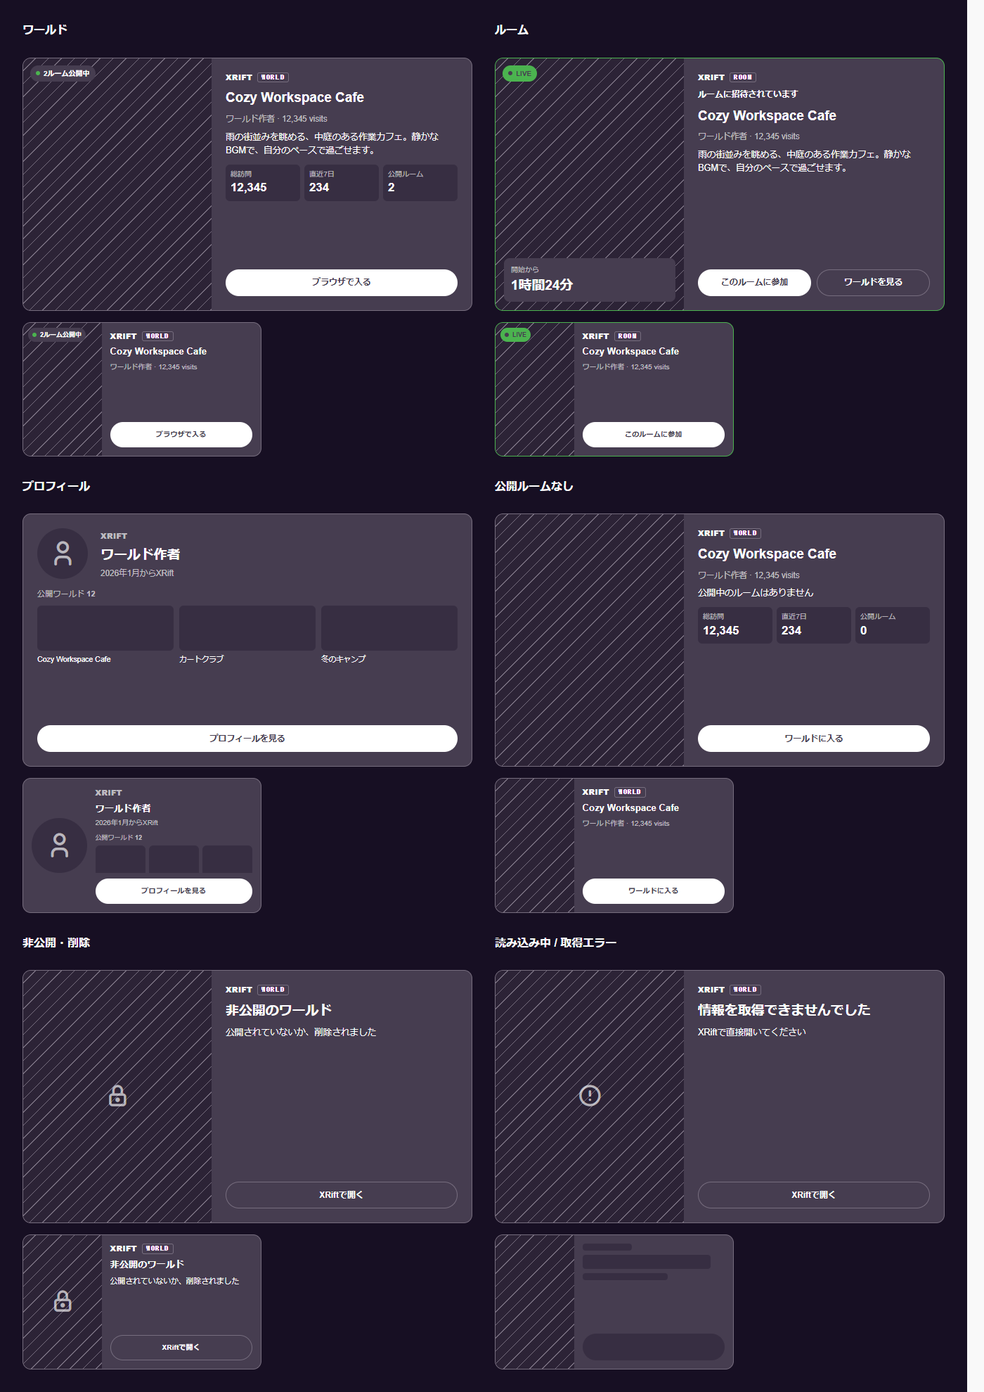
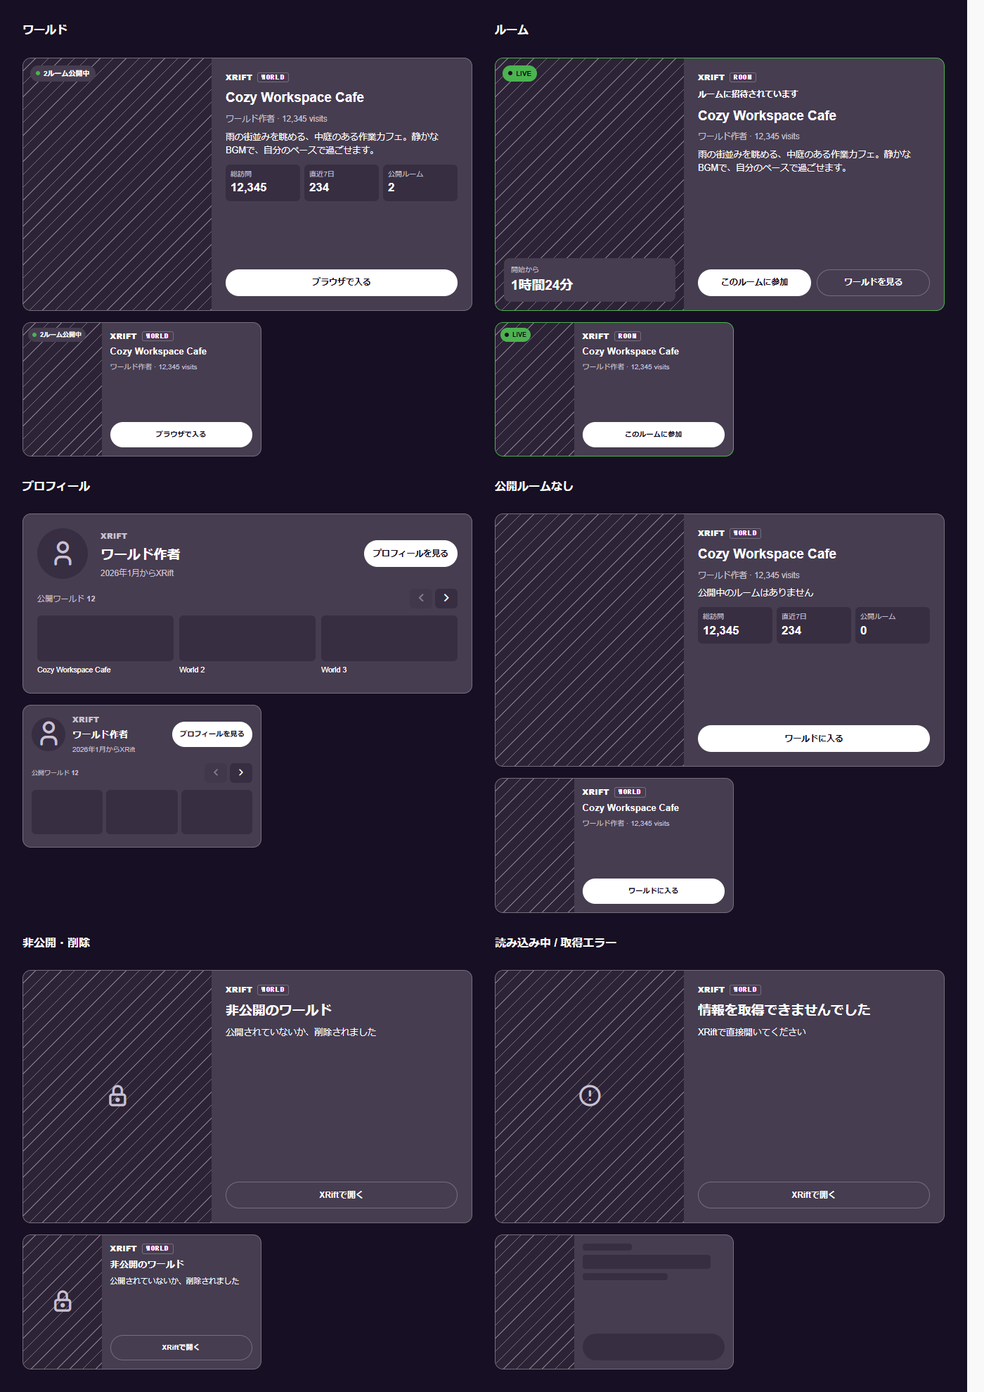
fix(gridspace): refine XRift profile cards and scroll worlds

Changed region(s): [[0.0, 0.4624, 0.4914, 0.6781], [0.3686, 0.3699, 0.4607, 0.4315], [0.0307, 0.4007, 0.0614, 0.4315]]

diff --git a/packages/frontend/src/components/MkXriftPreview.vue b/packages/frontend/src/components/MkXriftPreview.vue
@@ -5,7 +5,7 @@ SPDX-License-Identifier: AGPL-3.0-only
 
 <template>
 <div :class="$style.root">
-	<article :class="[$style.card, { [$style.profile]: type === 'user' && state === 'available' && !loading, [$style.live]: isLive }]" :aria-busy="loading">
+	<article :class="[$style.card, { [$style.profileSize]: type === 'user', [$style.profile]: type === 'user' && state === 'available' && !loading, [$style.live]: isLive }]" :aria-busy="loading">
 		<template v-if="type === 'user' && state === 'available' && !loading">
 			<div :class="$style.profileHeading">
 				<div :class="$style.avatar">
@@ -17,10 +17,17 @@ SPDX-License-Identifier: AGPL-3.0-only
 					<h3 :class="$style.title">{{ summary?.title }}</h3>
 					<p v-if="joinedAt" :class="$style.meta">{{ i18n.tsx._xriftPreview.joinedAt({ date: joinedAt }) }}</p>
 				</div>
+				<a :href="url" target="_blank" rel="nofollow noopener" :class="[$style.button, $style.primary, $style.profileAction]">{{ i18n.ts._xriftPreview.viewProfile }}</a>
 			</div>
-			<div v-if="data?.totalWorlds != null" :class="$style.worlds">
-				<p :class="$style.worldCount">{{ i18n.ts._xriftPreview.publicWorlds }} <strong>{{ format(data.totalWorlds) }}</strong></p>
-				<div v-if="data.worlds?.length" :class="$style.worldGrid">
+			<div v-if="data?.totalWorlds != null && data.totalWorlds > 0" :class="$style.worlds">
+				<div :class="$style.worldsHeader">
+					<p :class="$style.worldCount">{{ i18n.ts._xriftPreview.publicWorlds }} <strong>{{ format(data.totalWorlds) }}</strong></p>
+					<div v-if="(data.worlds?.length ?? 0) > 3" :class="$style.scrollActions">
+						<button class="_button" :class="$style.scrollButton" :aria-label="i18n.ts._xriftPreview.previousWorlds" :disabled="!canScrollLeft" @click="scrollWorlds(-1)"><i class="ti ti-chevron-left" aria-hidden="true"></i></button>
+						<button class="_button" :class="$style.scrollButton" :aria-label="i18n.ts._xriftPreview.nextWorlds" :disabled="!canScrollRight" @click="scrollWorlds(1)"><i class="ti ti-chevron-right" aria-hidden="true"></i></button>
+					</div>
+				</div>
+				<div v-if="data.worlds?.length" ref="worldScroller" :class="$style.worldGrid" role="region" :aria-label="i18n.ts._xriftPreview.publicWorlds" tabindex="0" @scroll.passive="updateWorldScrollState" @keydown.left.prevent="scrollWorlds(-1)" @keydown.right.prevent="scrollWorlds(1)">
 					<a v-for="world in data.worlds" :key="world.url" :href="world.url" :aria-label="world.title" target="_blank" rel="nofollow noopener" :class="$style.worldLink">
 						<div :class="$style.worldImage">
 							<img v-if="world.thumbnail && !hideImages" :src="world.thumbnail" alt="" loading="lazy" @error="hideFailedImage"/>
@@ -29,7 +36,6 @@ SPDX-License-Identifier: AGPL-3.0-only
 					</a>
 				</div>
 			</div>
-			<a :href="url" target="_blank" rel="nofollow noopener" :class="[$style.button, $style.primary, $style.profileAction]">{{ i18n.ts._xriftPreview.viewProfile }}</a>
 		</template>
 		<template v-else>
 			<div :class="[$style.visual, { [$style.placeholder]: !imageVisible || state !== 'available' || loading }]">
@@ -72,7 +78,7 @@ SPDX-License-Identifier: AGPL-3.0-only
 </template>
 
 <script setup lang="ts">
-import { computed, ref } from 'vue';
+import { computed, ref, watch } from 'vue';
 import { useLowresTime } from '@@/js/use-lowres-time.js';
 import type { SummalyResult } from '@misskey-dev/summaly';
 import type { XriftPreview } from 'misskey-js';
@@ -87,6 +93,28 @@ const props = defineProps<{
 	failed: boolean;
 }>();
 const data = computed(() => props.summary?.xrift);
+const worldScroller = ref<HTMLElement | null>(null);
+const canScrollLeft = ref(false);
+const canScrollRight = ref(false);
+watch(worldScroller, (element, _, onCleanup) => {
+	updateWorldScrollState();
+	if (!element || typeof ResizeObserver === 'undefined') return;
+	const observer = new ResizeObserver(updateWorldScrollState);
+	observer.observe(element);
+	onCleanup(() => observer.disconnect());
+}, { flush: 'post' });
+watch(() => data.value?.worlds, updateWorldScrollState, { flush: 'post' });
+
+function updateWorldScrollState(): void {
+	const element = worldScroller.value;
+	canScrollLeft.value = !!element && element.scrollLeft > 1;
+	canScrollRight.value = !!element && element.scrollLeft + element.clientWidth < element.scrollWidth - 1;
+}
+
+function scrollWorlds(direction: number): void {
+	worldScroller.value?.scrollBy({ left: direction * worldScroller.value.clientWidth });
+}
+
 const state = computed(() => props.failed ? 'error' : data.value?.state ?? 'available');
 const isLive = computed(() => props.type === 'instance' && state.value === 'available' && data.value != null && !props.loading);
 const hideImages = computed(() => props.summary?.sensitive === true || prefer.s.dataSaver.urlPreviewThumbnail);
@@ -128,8 +156,20 @@ function hideFailedImage(event: Event): void {
 
 <style lang="scss" module>
 .root {
+	// The supplied XRift design deliberately keeps its dark palette in every
+	// Misskey theme. Keep these colors local to the embedded card.
+	--xrift-panel: #463d50;
+	--xrift-visual: #2c2336;
+	--xrift-well: #372e42;
+	--xrift-border: #766d7e;
+	--xrift-fg: #ffffff;
+	--xrift-muted: #c9c1d2;
+	--xrift-ink: #170f23;
+	--xrift-hover: #574d61;
+	--xrift-live: #4bb34f;
+	--xrift-focus: #a6c8ff;
 	container-type: inline-size;
-	color: var(--MI_THEME-fg);
+	color: var(--xrift-fg);
 }
 .card {
 	display: grid;
@@ -137,59 +177,63 @@ function hideFailedImage(event: Event): void {
 	aspect-ratio: 16 / 9;
 	box-sizing: border-box;
 	overflow: hidden;
-	border: 1px solid var(--MI_THEME-divider);
+	border: 1px solid var(--xrift-border);
 	border-radius: var(--MI-radius);
-	background: var(--MI_THEME-panelHighlight);
+	background: var(--xrift-panel);
 	font-size: 14px;
-	&.live { border-color: var(--MI_THEME-success); }
+	&.live { border-color: var(--xrift-live); }
 }
 .visual {
 	position: relative;
 	min-width: 0;
 	min-height: 0;
-	background: var(--MI_THEME-bg);
+	background: var(--xrift-visual);
 	> img { display: block; width: 100%; height: 100%; object-fit: cover; }
 }
-.visualIcon { position: absolute; inset: 0; display: flex; align-items: center; justify-content: center; font-size: 28px; color: color-mix(in srgb, var(--MI_THEME-fg) 65%, transparent); }
-.placeholder { background: repeating-linear-gradient(135deg, var(--MI_THEME-bg), var(--MI_THEME-bg) 12px, var(--MI_THEME-divider) 12px, var(--MI_THEME-divider) 13px); }
+.visualIcon { position: absolute; inset: 0; display: flex; align-items: center; justify-content: center; font-size: 28px; color: var(--xrift-muted); }
+.placeholder { background: repeating-linear-gradient(135deg, var(--xrift-visual), var(--xrift-visual) 12px, var(--xrift-border) 12px, var(--xrift-border) 13px); }
 .body { min-width: 0; padding: 20px; display: flex; flex-direction: column; gap: 9px; overflow: hidden; }
 .brandRow { display: flex; align-items: center; gap: 7px; }
 .brand { font-size: 11px; font-weight: 800; letter-spacing: 0.03em; }
-.type { padding: 1px 5px; border: 1px solid var(--MI_THEME-divider); border-radius: 3px; font: 700 9px/1.2 monospace; letter-spacing: 0.06em; }
+.type { padding: 1px 5px; border: 1px solid var(--xrift-border); border-radius: 3px; font: 700 9px/1.2 monospace; letter-spacing: 0.06em; }
 .title { margin: 0; font-size: 1.35em; line-height: 1.35; font-weight: 750; overflow-wrap: anywhere; display: -webkit-box; -webkit-box-orient: vertical; -webkit-line-clamp: 2; overflow: hidden; }
-.meta { margin: 0; color: color-mix(in srgb, var(--MI_THEME-fg) 65%, transparent); font-size: 0.83em; overflow: hidden; text-overflow: ellipsis; white-space: nowrap; }
+.meta { margin: 0; color: var(--xrift-muted); font-size: 0.83em; overflow: hidden; text-overflow: ellipsis; white-space: nowrap; }
 .description { margin: 0; font-size: 0.9em; line-height: 1.55; white-space: pre-line; overflow-wrap: anywhere; display: -webkit-box; -webkit-box-orient: vertical; -webkit-line-clamp: 2; overflow: hidden; }
 .invitation { margin: 0; font-size: 0.85em; font-weight: bold; }
 .stats {
 	display: flex; gap: 6px; margin: 0;
-	> div { flex: 1; min-width: 0; padding: 7px; background: var(--MI_THEME-buttonBg); border-radius: 6px; }
-	dt { color: color-mix(in srgb, var(--MI_THEME-fg) 65%, transparent); font-size: 0.72em; white-space: nowrap; }
+	> div { flex: 1; min-width: 0; padding: 7px; background: var(--xrift-well); border-radius: 6px; }
+	dt { color: var(--xrift-muted); font-size: 0.72em; white-space: nowrap; }
 	dd { margin: 2px 0 0; font-size: 1.2em; font-weight: bold; font-variant-numeric: tabular-nums; }
 }
 .actions { display: flex; gap: 8px; margin-top: auto; padding-top: 8px; }
 .button {
 	display: flex; align-items: center; justify-content: center; min-width: 0; min-height: 38px; box-sizing: border-box; flex: 1;
-	padding: 8px 12px; border: 1px solid var(--MI_THEME-divider); border-radius: 999px; color: inherit;
+	padding: 8px 12px; border: 1px solid var(--xrift-border); border-radius: 999px; color: inherit;
 	font-size: 0.85em; line-height: 1.3; font-weight: bold; text-align: center;
-	&:hover { text-decoration: none; background: var(--MI_THEME-buttonHoverBg); }
-	&:focus-visible { outline: 2px solid var(--MI_THEME-focus); outline-offset: -3px; }
-	&.primary { background: var(--MI_THEME-fg); color: var(--MI_THEME-panel); border-color: transparent; &:hover { opacity: 0.85; } }
+	&:hover { text-decoration: none; background: var(--xrift-hover); }
+	&:focus-visible { outline: 2px solid var(--xrift-focus); outline-offset: 2px; }
+	&.primary { background: var(--xrift-fg); color: var(--xrift-ink); border-color: transparent; &:hover { opacity: 0.85; } }
 }
-.badge { position: absolute; top: 10px; left: 10px; padding: 5px 8px; border-radius: 999px; background: var(--MI_THEME-panel); font-size: 10px; font-weight: bold; display: flex; align-items: center; gap: 5px; }
-.dot { width: 6px; height: 6px; border-radius: 50%; background: var(--MI_THEME-success); }
-.liveBadge { background: var(--MI_THEME-success); color: var(--MI_THEME-panel); .dot { background: currentColor; } }
-.elapsed { position: absolute; left: 12px; right: 12px; bottom: 12px; padding: 10px; background: var(--MI_THEME-panel); border-radius: 8px; small { display: block; font-size: 10px; color: color-mix(in srgb, var(--MI_THEME-fg) 65%, transparent); } strong { display: block; margin-top: 3px; font-size: 1.35em; } }
-.card.profile { display: flex; flex-direction: column; padding: 20px; gap: 14px; }
+.badge { position: absolute; top: 10px; left: 10px; padding: 5px 8px; border-radius: 999px; background: var(--xrift-panel); font-size: 10px; font-weight: bold; display: flex; align-items: center; gap: 5px; }
+.dot { width: 6px; height: 6px; border-radius: 50%; background: var(--xrift-live); }
+.liveBadge { background: var(--xrift-live); color: var(--xrift-ink); .dot { background: currentColor; } }
+.elapsed { position: absolute; left: 12px; right: 12px; bottom: 12px; padding: 10px; background: var(--xrift-panel); border-radius: 8px; small { display: block; font-size: 10px; color: var(--xrift-muted); } strong { display: block; margin-top: 3px; font-size: 1.35em; } }
+.profileSize { max-height: 320px; }
+.card.profile { display: flex; flex-direction: column; aspect-ratio: auto; padding: 20px; gap: 14px; }
 .profileHeading { display: flex; gap: 18px; align-items: center; min-height: 0; }
-.avatar { display: grid; place-items: center; width: 72px; height: 72px; flex-shrink: 0; border-radius: 50%; background: var(--MI_THEME-buttonBg); color: color-mix(in srgb, var(--MI_THEME-fg) 65%, transparent); overflow: hidden; > img { width: 100%; height: 100%; object-fit: cover; } > i { font-size: 32px; } }
-.profileIdentity { min-width: 0; .brand { color: color-mix(in srgb, var(--MI_THEME-fg) 65%, transparent); } .title { margin: 5px 0; } }
+.avatar { display: grid; place-items: center; width: 72px; height: 72px; flex-shrink: 0; border-radius: 50%; background: var(--xrift-well); color: var(--xrift-muted); overflow: hidden; > img { width: 100%; height: 100%; object-fit: cover; } > i { font-size: 32px; } }
+.profileIdentity { flex: 1; min-width: 0; .brand { color: var(--xrift-muted); } .title { margin: 5px 0; } }
 .worlds { min-height: 0; overflow: hidden; }
-.worldCount { margin: 0 0 8px; font-size: 0.8em; color: color-mix(in srgb, var(--MI_THEME-fg) 65%, transparent); }
-.worldGrid { display: grid; grid-template-columns: repeat(3, minmax(0, 1fr)); gap: 8px; }
-.worldLink { min-width: 0; font-size: 0.75em; color: inherit; > span { display: block; margin-top: 5px; white-space: nowrap; overflow: hidden; text-overflow: ellipsis; } &:focus-visible { outline: 2px solid var(--MI_THEME-focus); outline-offset: 2px; } }
-.worldImage { aspect-ratio: 3 / 1; overflow: hidden; border-radius: 6px; background: var(--MI_THEME-buttonBg); > img { display: block; width: 100%; height: 100%; object-fit: cover; } > img[hidden] { display: none; } }
-.profileAction { flex: 0 0 auto; margin-top: auto; }
-.skeleton { height: 10px; border-radius: 4px; background: var(--MI_THEME-buttonBg); }
+.worldsHeader { display: flex; align-items: center; justify-content: space-between; gap: 8px; margin-bottom: 8px; }
+.worldCount { margin: 0; font-size: 0.8em; color: var(--xrift-muted); }
+.scrollActions { display: flex; gap: 4px; }
+.scrollButton { display: grid; place-items: center; width: 32px; height: 28px; border-radius: 6px; color: var(--xrift-fg); background: var(--xrift-well); &:disabled { opacity: 0.35; cursor: default; } &:not(:disabled):hover { background: var(--xrift-hover); } &:focus-visible { outline: 2px solid var(--xrift-focus); outline-offset: -2px; } }
+.worldGrid { display: grid; grid-auto-flow: column; grid-auto-columns: calc((100% - 16px) / 3); gap: 8px; padding: 2px 0 6px; overflow-x: auto; overscroll-behavior-x: contain; scroll-snap-type: x proximity; scroll-behavior: smooth; scrollbar-width: thin; scrollbar-color: var(--xrift-border) transparent; direction: ltr; &:focus-visible { outline: 2px solid var(--xrift-focus); outline-offset: -2px; } }
+.worldLink { min-width: 0; font-size: 0.75em; color: inherit; scroll-snap-align: start; > span { display: block; margin-top: 5px; white-space: nowrap; overflow: hidden; text-overflow: ellipsis; } &:focus-visible { outline: 2px solid var(--xrift-focus); outline-offset: -2px; } }
+.worldImage { aspect-ratio: 3 / 1; max-height: 80px; overflow: hidden; border-radius: 6px; background: var(--xrift-well); > img { display: block; width: 100%; height: 100%; object-fit: cover; } > img[hidden] { display: none; } }
+.profileAction { flex: 0 0 auto; max-width: 45%; }
+.skeleton { height: 10px; border-radius: 4px; background: var(--xrift-well); }
 .skeletonBrand { width: 35%; }
 .skeletonTitle { height: 20px; width: 90%; }
 .skeletonText { width: 60%; }
@@ -211,19 +255,20 @@ function hideFailedImage(event: Event): void {
 	.badge { top: 7px; left: 7px; font-size: 9px; padding: 4px 6px; }
 	.button { min-height: 36px; padding: 7px 8px; }
 	.actions { padding-top: 4px; }
-	.card.profile { display: grid; grid-template-columns: 25% minmax(0, 1fr); grid-template-rows: auto 1fr auto; padding: 12px; gap: 8px 12px; }
-	.profileHeading { display: contents; }
-	.avatar { grid-column: 1; grid-row: 1 / 4; width: 100%; height: auto; aspect-ratio: 1; align-self: center; }
-	.profileIdentity { grid-column: 2; }
-	.worlds { grid-column: 2; }
-	.worldGrid { gap: 5px; }
+	.card.profile { padding: 12px; gap: 12px; }
+	.profileHeading { gap: 10px; }
+	.avatar { width: 48px; height: 48px; }
+	.profileAction { padding: 8px 10px; }
+	.worldGrid { grid-auto-columns: calc((100% - 10px) / 3); gap: 5px; }
 	.worldImage { aspect-ratio: 1.6; }
 	.worldLink > span { display: none; }
-	.worldCount { margin-bottom: 5px; font-size: 0.75em; }
-	.profileAction { grid-column: 2; }
+	.worldCount { font-size: 0.75em; }
 }
 @container (max-width: 320px) {
 	.meta { display: none; }
 	.body { padding: 10px; gap: 4px; }
+}
+@media (prefers-reduced-motion: reduce) {
+	.worldGrid { scroll-behavior: auto; }
 }
 </style>

diff --git a/packages/backend/src/server/web/xrift.test.ts b/packages/backend/src/server/web/xrift.test.ts
@@ -18,7 +18,7 @@ function fixture(overrides: Record<string, unknown> = {}) {
 		[`/worlds/${id}/stats`]: { data: { worldId: id, totalVisits: 12345, visitsLast7Days: 234 } },
 		[`/worlds/${id}/instances?limit=1`]: { data: [], pagination: { total: 2 } },
 		[`/users/${ownerId}`]: { data: { id: ownerId, displayName: 'World creator', userIconUrl: 'https://assets.xrift.net/avatar.png', createdAt: '2026-01-01T00:00:00.000Z' } },
-		[`/users/${ownerId}/worlds?limit=3`]: { data: [world, { ...world, isPublic: false }], pagination: { total: 12 } },
+		[`/users/${ownerId}/worlds?limit=50`]: { data: [world, { ...world, isPublic: false }], pagination: { total: 12 } },
 		[`/instances/${instanceId}`]: { data: { id: instanceId, worldId: id, createdAt: '2026-11-17T00:00:00.000Z' } },
 		[`/worlds/${id}/instances?limit=50&offset=0`]: { data: [{ id: instanceId, worldId: id }], pagination: { total: 1 } },
 		...overrides,
@@ -45,7 +45,7 @@ describe('XRift URL summaries', () => {
 		const summary = await fetchXriftSummary(`https://app.xrift.net/instance/${instanceId}`, apiKey, fixture());
 		expect(summary).toMatchObject({ title: world.name, xrift: { type: 'instance', state: 'available', worldUrl, createdAt: '2026-11-17T00:00:00.000Z' } });
 	});
-	test('returns a profile and at most three public worlds', async () => {
+	test('returns a profile and its public worlds', async () => {
 		const summary = await fetchXriftSummary(`https://app.xrift.net/user/${ownerId}`, apiKey, fixture());
 		expect(summary).toMatchObject({ title: 'World creator', thumbnail: 'https://assets.xrift.net/avatar.png', xrift: { type: 'user', totalWorlds: 12, worlds: [{ url: worldUrl, title: world.name }] } });
 		expect(summary?.xrift.worlds).toHaveLength(1);
@@ -54,6 +54,13 @@ describe('XRift URL summaries', () => {
 		const summary = await fetchXriftSummary(`https://app.xrift.net/instance/${instanceId}`, apiKey, fixture({ [`/worlds/${id}/instances?limit=50&offset=0`]: { data: [], pagination: { total: 0 } } }));
 		expect(summary).toMatchObject({ title: null, thumbnail: null, xrift: { state: 'unavailable' } });
 		expect(summary?.xrift.createdAt).toBeUndefined();
+	});
+	test('returns more than three public worlds, capped at the API page size', async () => {
+		const worlds = Array.from({ length: 51 }, (_, i) => ({ ...world, id: `4b84ca2a-06cc-4351-a2df-${i.toString(16).padStart(12, '0')}`, name: `World ${i}` }));
+		const summary = await fetchXriftSummary(`https://app.xrift.net/user/${ownerId}`, apiKey, fixture({ [`/users/${ownerId}/worlds?limit=50`]: { data: worlds, pagination: { total: 51 } } }));
+		expect(summary?.xrift.totalWorlds).toBe(51);
+		expect(summary?.xrift.worlds).toHaveLength(50);
+		expect(summary?.xrift.worlds?.at(-1)?.title).toBe('World 49');
 	});
 	test.each([
 		'https://example.com/world/' + id, 'https://app.xrift.net.evil.example/world/' + id,

diff --git a/packages/frontend/src/components/MkXriftPreview.stories.impl.ts b/packages/frontend/src/components/MkXriftPreview.stories.impl.ts
@@ -24,7 +24,9 @@ export const World = {
 export const Mobile = { ...World, render(args) { return { components: { MkXriftPreview }, setup: () => ({ args }), template: '<div style="width:340px;max-width:100%"><MkXriftPreview v-bind="args"/></div>' }; } } satisfies StoryObj<typeof MkXriftPreview>;
 export const Empty = { ...World, args: { ...World.args, summary: { ...summary, xrift: { ...summary.xrift, publicInstances: 0 } } } } satisfies StoryObj<typeof MkXriftPreview>;
 export const Room = { ...World, args: { ...World.args, type: 'instance', url: url.replace('/world/', '/instance/'), summary: { ...summary, xrift: { ...summary.xrift, type: 'instance', worldUrl: url, createdAt: new Date(Date.now() - 84 * 60_000).toISOString() } } } } satisfies StoryObj<typeof MkXriftPreview>;
-export const Profile = { ...World, args: { ...World.args, type: 'user', summary: { ...summary, title: 'ワールド作者', xrift: { type: 'user', state: 'available', creator: null, totalWorlds: 12, createdAt: '2026-01-01T00:00:00Z', worlds: [{ url, title: summary.title!, thumbnail: null }] } } } } satisfies StoryObj<typeof MkXriftPreview>;
+export const Profile = { ...World, args: { ...World.args, type: 'user', summary: { ...summary, title: 'ワールド作者', xrift: { type: 'user', state: 'available', creator: null, totalWorlds: 12, createdAt: '2026-01-01T00:00:00Z', worlds: Array.from({ length: 8 }, (_, i) => ({ url: i ? `${url}?world=${i}` : url, title: i ? `World ${i + 1}` : summary.title!, thumbnail: null })) } } } } satisfies StoryObj<typeof MkXriftPreview>;
 export const Unavailable = { ...World, args: { ...World.args, summary: { ...summary, xrift: { type: 'world', state: 'unavailable', creator: null } } } } satisfies StoryObj<typeof MkXriftPreview>;
 export const Loading = { ...World, args: { ...World.args, summary: null, loading: true } } satisfies StoryObj<typeof MkXriftPreview>;
 export const Error = { ...World, args: { ...World.args, summary: null, failed: true } } satisfies StoryObj<typeof MkXriftPreview>;
+
+export const ProfileWithoutWorlds = { ...Profile, args: { ...Profile.args, summary: { ...Profile.args.summary, xrift: { ...Profile.args.summary.xrift, totalWorlds: 0, worlds: [] } } } } satisfies StoryObj<typeof MkXriftPreview>;

diff --git a/packages/frontend/test/unit/xrift-preview.test.ts b/packages/frontend/test/unit/xrift-preview.test.ts
@@ -32,6 +32,22 @@ describe('XRift cards', () => {
 		expect(view.getByText('12')).toBeTruthy();
 		expect(view.getByRole('link', { name: 'Cozy Workspace Cafe' }).getAttribute('href')).toBe(World.args.url);
 	});
+	test('profiles without public worlds omit the count and keep the profile action beside the identity', () => {
+		const view = render(MkXriftPreview, { props: { ...Profile.args, summary: { ...Profile.args.summary, xrift: { ...Profile.args.summary.xrift, totalWorlds: 0, worlds: [] } } } });
+		expect(view.queryByText('公開ワールド')).toBeNull();
+		expect(view.queryByText('0')).toBeNull();
+		const name = view.getByRole('heading', { name: 'ワールド作者' });
+		const link = view.getByRole('link', { name: 'プロフィールを見る' });
+		expect(name.parentElement?.parentElement).toBe(link.parentElement);
+	});
+	test('keeps worlds beyond the third in the scrollable list', () => {
+		const worlds = Array.from({ length: 8 }, (_, i) => ({ url: `${World.args.url}?world=${i}`, title: `World ${i}`, thumbnail: null }));
+		const view = render(MkXriftPreview, { props: { ...Profile.args, summary: { ...Profile.args.summary, xrift: { ...Profile.args.summary.xrift, totalWorlds: 8, worlds } } } });
+		expect(view.getByRole('region', { name: '公開ワールド' })).toBeTruthy();
+		expect(view.getByRole('link', { name: 'World 7' })).toBeTruthy();
+		expect(view.getByRole('button', { name: '前のワールドを表示' })).toBeTruthy();
+		expect(view.getByRole('button', { name: '次のワールドを表示' })).toBeTruthy();
+	});
 	test('does not present unavailable counts as zero or an active room', () => {
 		const view = render(MkXriftPreview, { props: { ...Room.args, summary: { ...Room.args.summary, xrift: { type: 'instance', state: 'error', creator: null } } } });
 		expect(view.queryByText('LIVE')).toBeNull();

diff --git a/packages/backend/src/server/web/xrift.ts b/packages/backend/src/server/web/xrift.ts
@@ -102,10 +102,10 @@ export async function fetchXriftSummary(url: string, apiKey: string | null, getJ
 			summary.title = data.displayName;
 			summary.thumbnail = xriftImageUrl(data.userIconUrl);
 			summary.xrift.createdAt = date(data.createdAt);
-			const worlds = await optional(`/users/${resource.id}/worlds?limit=3`);
+			const worlds = await optional(`/users/${resource.id}/worlds?limit=50`);
 			if (Array.isArray(worlds?.data)) {
 				summary.xrift.totalWorlds = count(object(worlds.pagination)?.total);
-				summary.xrift.worlds = worlds.data.slice(0, 3).flatMap(item => {
+				summary.xrift.worlds = worlds.data.slice(0, 50).flatMap(item => {
 					const world = publicWorld(item);
 					return world ? [{ url: `https://app.xrift.net/world/${world.id}`, title: world.name as string, thumbnail: xriftImageUrl(world.thumbnailUrl) }] : [];
 				});

diff --git a/packages/backend/src/server/web/UrlPreviewService.ts b/packages/backend/src/server/web/UrlPreviewService.ts
@@ -115,7 +115,8 @@ export class UrlPreviewService implements OnApplicationShutdown {
 								};
 								await Promise.all([
 									result.xrift.worldUrl && !result.thumbnail ? thumbnailFor(result.xrift.worldUrl).then(image => { result.thumbnail = image; }) : null,
-									...(result.xrift.worlds ?? []).map(async world => { world.thumbnail ??= await thumbnailFor(world.url); }),
+									// Bound extra HTML requests when a profile has many worlds.
+									...(result.xrift.worlds ?? []).slice(0, 6).map(async world => { world.thumbnail ??= await thumbnailFor(world.url); }),
 								]);
 								return result;
 							})

diff --git a/packages/i18n/src/autogen/locale.ts b/packages/i18n/src/autogen/locale.ts
@@ -15167,6 +15167,14 @@ export interface Locale extends ILocale {
          */
         "publicWorlds": string;
         /**
+         * 前のワールドを表示
+         */
+        "previousWorlds": string;
+        /**
+         * 次のワールドを表示
+         */
+        "nextWorlds": string;
+        /**
          * {date}からXRift
          */
         "joinedAt": ParameterizedString<"date">;
